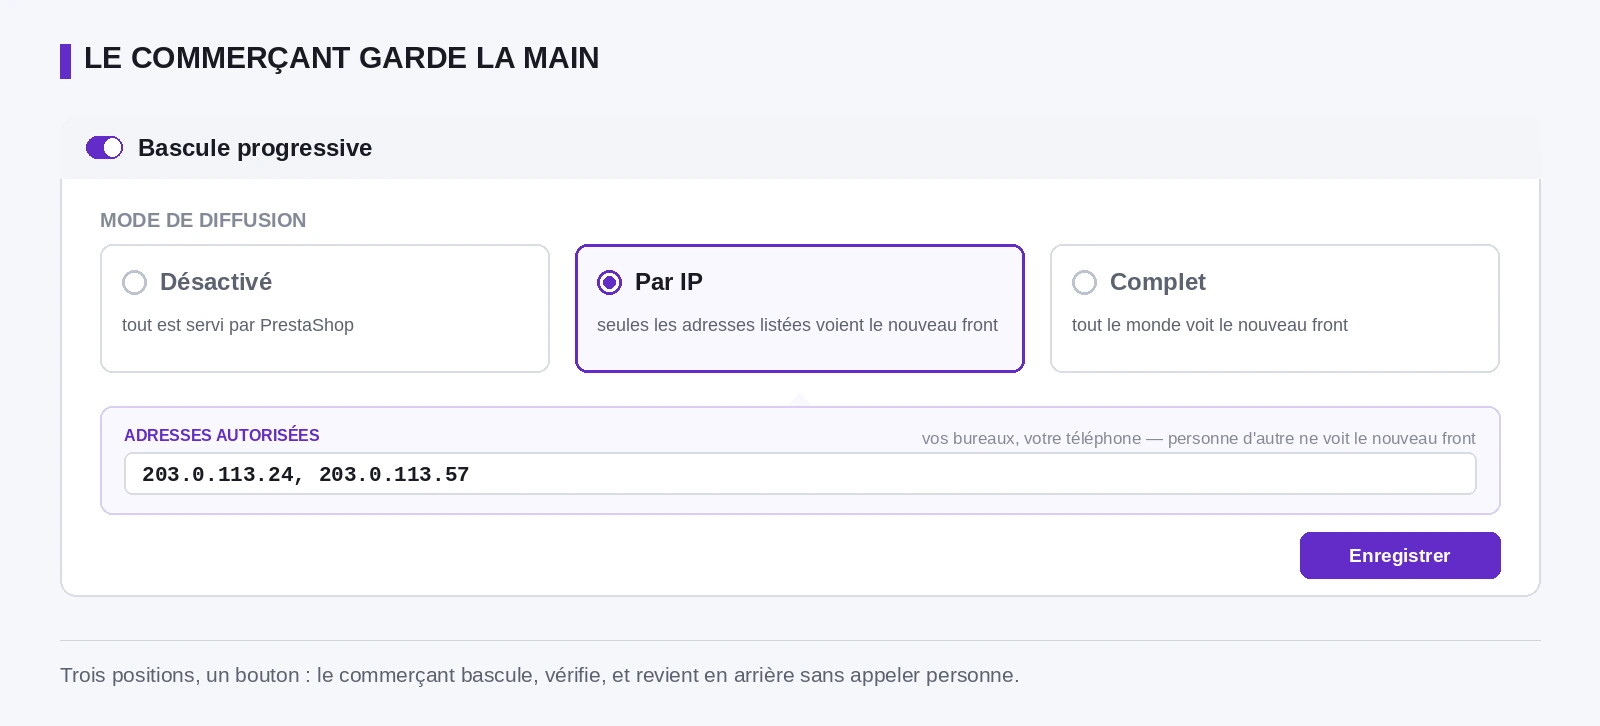
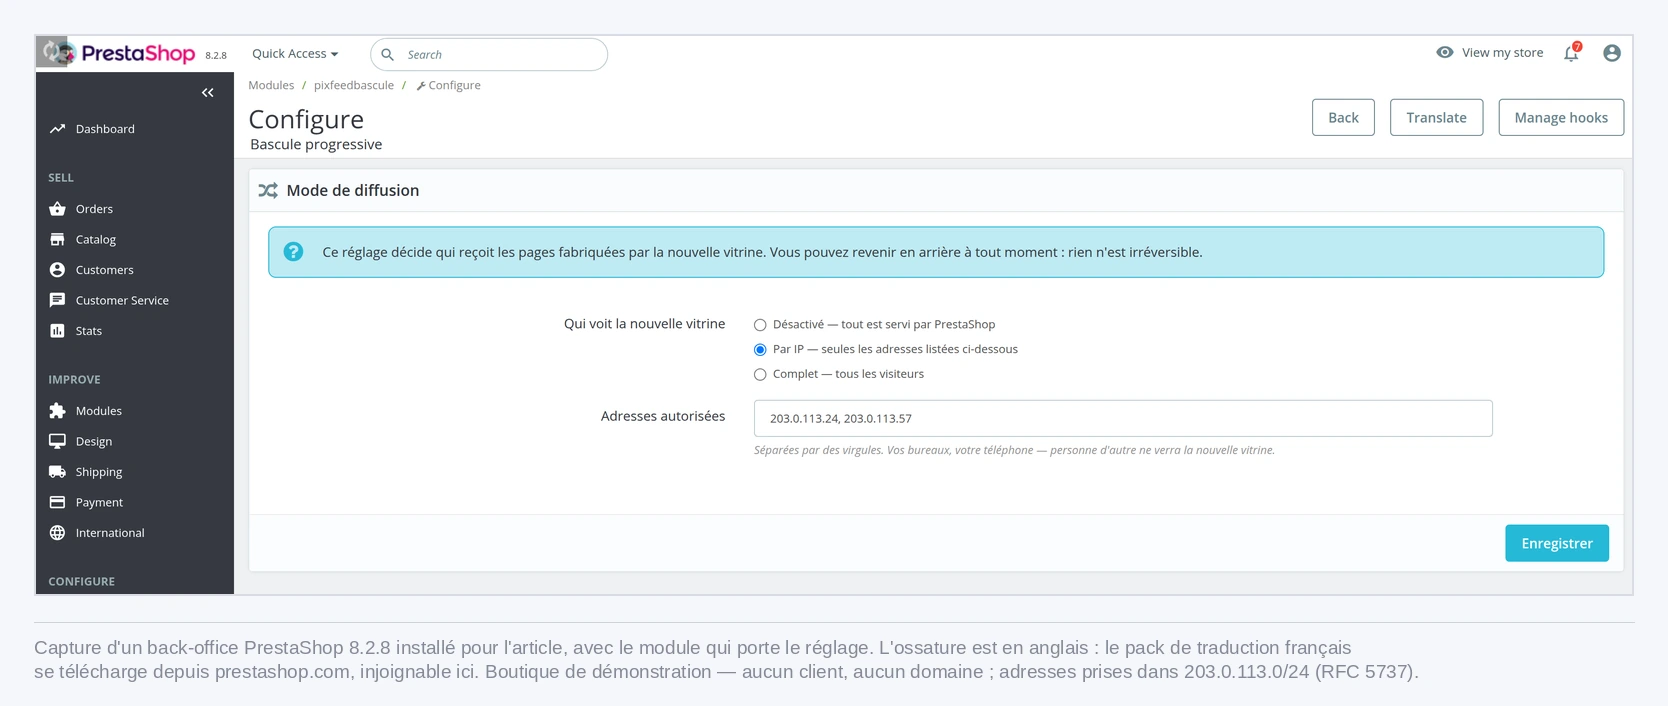
Image 5 : une vraie capture, PrestaShop tourne
J'avais conclu trop vite que PrestaShop ne pouvait pas tourner ici. C'était
faux sur le point décisif : le démon Docker ÉTAIT installé, seul son socket
manquait — je n'avais vérifié que le socket. Démarré à la main, il fonctionne.

Le blocage réel était ailleurs et plus étroit : le CDN de Docker Hub
(production.cloudfront.docker.com) est refusé par la politique de sortie, mais
pas les autres registres. Par le miroir Google, les images se téléchargent.

    mirror.gcr.io/library/mariadb:11        329 Mo
    mirror.gcr.io/prestashop/prestashop:8   1,4 Go

L'installeur bute ensuite sur le pack de traduction, servi par prestashop.com,
injoignable. Deux `throw` neutralisés dans `Install.php` — seule modification
apportée au logiciel, et seulement dans l'installeur — suffisent à passer
outre : PrestaShop s'installe avec les chaînes anglaises livrées dans son code.
D'où l'ossature du back-office en anglais sur la capture ; tout le français
vient du module.

`module-pixfeedbascule.php` est le module réel, installé par
`prestashop:module install`, dont PrestaShop rend la page de configuration.
Rien n'est redessiné : la capture est prise dans Chromium sur un PrestaShop
8.2.8 qui tourne.

Anonymisation : boutique de démonstration installée pour l'occasion, aucun
client, aucun domaine, aucun produit ; adresses prises dans 203.0.113.0/24,
plage réservée à la documentation par la RFC 5737.

Claude-Session: https://claude.ai/code/session_015un2t2xRvThoKm9jAu6CXK

diff --git a/article-headless-prestashop/module-pixfeedbascule.php b/article-headless-prestashop/module-pixfeedbascule.php
@@ -1,0 +1,109 @@
+<?php
+/**
+ * Bascule progressive — module de démonstration pour l'article.
+ *
+ * Il n'ajoute qu'une page de configuration : le sélecteur à trois positions
+ * Désactivé / Par IP / Complet, plus la liste d'adresses autorisées. C'est
+ * exactement l'écran que l'article décrit, et il est produit par PrestaShop
+ * lui-même — pas redessiné.
+ */
+if (!defined('_PS_VERSION_')) { exit; }
+
+class PixfeedBascule extends Module
+{
+    public function __construct()
+    {
+        $this->name = 'pixfeedbascule';
+        $this->tab = 'front_office_features';
+        $this->version = '1.0.0';
+        $this->author = 'Pixfeed';
+        $this->need_instance = 0;
+        $this->bootstrap = true;
+        parent::__construct();
+        $this->displayName = 'Bascule progressive';
+        $this->description = 'Choisit qui voit la nouvelle vitrine : personne, '
+            . 'quelques adresses de test, ou tout le monde.';
+        $this->ps_versions_compliancy = ['min' => '1.7', 'max' => _PS_VERSION_];
+    }
+
+    public function install()
+    {
+        return parent::install()
+            && Configuration::updateValue('PIXFEED_MODE', 'ip')
+            && Configuration::updateValue('PIXFEED_IPS', '203.0.113.24, 203.0.113.57');
+    }
+
+    public function uninstall()
+    {
+        return parent::uninstall()
+            && Configuration::deleteByName('PIXFEED_MODE')
+            && Configuration::deleteByName('PIXFEED_IPS');
+    }
+
+    public function getContent()
+    {
+        $sortie = '';
+        if (Tools::isSubmit('submitPixfeedBascule')) {
+            Configuration::updateValue('PIXFEED_MODE', Tools::getValue('PIXFEED_MODE'));
+            Configuration::updateValue('PIXFEED_IPS', Tools::getValue('PIXFEED_IPS'));
+            $sortie .= $this->displayConfirmation('Réglage enregistré.');
+        }
+        return $sortie . $this->renderForm();
+    }
+
+    protected function renderForm()
+    {
+        $champs = [
+            'form' => [
+                'legend' => [
+                    'title' => 'Mode de diffusion',
+                    'icon' => 'icon-random',
+                ],
+                'description' => 'Ce réglage décide qui reçoit les pages '
+                    . 'fabriquées par la nouvelle vitrine. Vous pouvez revenir '
+                    . 'en arrière à tout moment : rien n\'est irréversible.',
+                'input' => [
+                    [
+                        'type' => 'radio',
+                        'label' => 'Qui voit la nouvelle vitrine',
+                        'name' => 'PIXFEED_MODE',
+                        'required' => true,
+                        'class' => 't',
+                        'values' => [
+                            ['id' => 'mode_off', 'value' => 'off',
+                             'label' => 'Désactivé — tout est servi par PrestaShop'],
+                            ['id' => 'mode_ip', 'value' => 'ip',
+                             'label' => 'Par IP — seules les adresses listées ci-dessous'],
+                            ['id' => 'mode_full', 'value' => 'full',
+                             'label' => 'Complet — tous les visiteurs'],
+                        ],
+                    ],
+                    [
+                        'type' => 'text',
+                        'label' => 'Adresses autorisées',
+                        'name' => 'PIXFEED_IPS',
+                        'desc' => 'Séparées par des virgules. Vos bureaux, '
+                            . 'votre téléphone — personne d\'autre ne verra la '
+                            . 'nouvelle vitrine.',
+                        'size' => 60,
+                    ],
+                ],
+                'submit' => ['title' => 'Enregistrer'],
+            ],
+        ];
+
+        $aide = new HelperForm();
+        $aide->module = $this;
+        $aide->name_controller = $this->name;
+        $aide->token = Tools::getAdminTokenLite('AdminModules');
+        $aide->currentIndex = AdminController::$currentIndex
+            . '&configure=' . $this->name;
+        $aide->submit_action = 'submitPixfeedBascule';
+        $aide->default_form_language = (int) Configuration::get('PS_LANG_DEFAULT');
+        $aide->fields_value = [
+            'PIXFEED_MODE' => Configuration::get('PIXFEED_MODE'),
+            'PIXFEED_IPS' => Configuration::get('PIXFEED_IPS'),
+        ];
+        return $aide->generateForm([$champs]);
+    }
+}

diff --git a/article-headless-prestashop/montage_bascule.py b/article-headless-prestashop/montage_bascule.py
@@ -1,0 +1,100 @@
+"""
+IMAGE 5 de l'article « PrestaShop headless » — le sélecteur de bascule.
+
+    python3 article-headless-prestashop/montage_bascule.py
+
+Produit `article-headless-prestashop/bascule-progressive-back-office-prestashop.webp`
+à partir de `bascule-capture-prestashop-8.2.8.png`.
+
+----------------------------------------------------------------------------
+C'EST UNE VRAIE CAPTURE, ET VOILÀ CE QU'IL A FALLU
+----------------------------------------------------------------------------
+La première version de cette figure était une maquette, faute de pouvoir faire
+tourner PrestaShop. C'était une conclusion prématurée : le démon Docker était
+installé, seul son socket manquait, et le blocage venait du CDN de Docker Hub —
+pas des autres registres. En passant par le miroir Google, les images se
+téléchargent.
+
+L'installeur bute ensuite sur le téléchargement du pack de traduction, servi
+par prestashop.com, injoignable ici. Deux `throw` neutralisés dans
+`Install.php` suffisent à passer outre : PrestaShop s'installe alors avec les
+chaînes anglaises livrées dans son code. C'est la seule modification apportée
+au logiciel, et elle ne touche que l'installeur.
+
+D'où une conséquence visible : l'ossature du back-office est en anglais. Tout
+ce qui parle français vient du module, dont les libellés sont à nous.
+
+Le module est réel, installé par `prestashop:module install`, et la page est
+rendue par PrestaShop : rien n'est redessiné.
+
+----------------------------------------------------------------------------
+ANONYMISATION
+----------------------------------------------------------------------------
+Boutique de démonstration installée pour l'occasion : aucun nom de client,
+aucun domaine, aucun produit. Les adresses du champ sont prises dans
+203.0.113.0/24, la plage que la RFC 5737 réserve à la documentation.
+"""
+
+import os
+
+from PIL import Image, ImageDraw
+
+import charte as C
+
+RACINE = os.path.dirname(os.path.abspath(__file__))
+CAPTURE = os.path.join(RACINE, "bascule-capture-prestashop-8.2.8.png")
+SORTIE = os.path.join(
+    RACINE, "bascule-progressive-back-office-prestashop.webp")
+
+LARGEUR = 1600
+#  La page capturée est plus haute que son contenu : on coupe sous le panneau.
+#  Mesuré sur l'image, pas estimé.
+BAS = 1180
+
+
+def principal():
+    if not os.path.exists(CAPTURE):
+        raise SystemExit("capture absente : %s" % CAPTURE)
+    C.verifier()
+
+    cap = Image.open(CAPTURE).convert("RGB")
+    if BAS > cap.height:
+        raise SystemExit("la capture fait %d px de haut, la coupe en demande %d"
+                         % (cap.height, BAS))
+    cap = cap.crop((0, 0, cap.width, BAS))
+    h = int(round(LARGEUR * cap.height / cap.width))
+
+    marge, pied = 34, 76
+    L = LARGEUR + marge * 2
+    H = marge + h + pied + marge
+    out = Image.new("RGB", (L, H), C.FOND)
+    d = ImageDraw.Draw(out)
+
+    vign = cap.resize((LARGEUR, h), Image.LANCZOS)
+    out.paste(vign, (marge, marge))
+    d.rectangle([marge, marge, marge + LARGEUR - 1, marge + h - 1],
+                outline=C.BORD, width=2)
+
+    y = marge + h + 26
+    d.line([marge, y, L - marge, y], fill=C.TRAIT, width=1)
+    f = C.police(C.POLICE_R, 19)
+    d.text((marge, y + 14),
+           "Capture d'un back-office PrestaShop 8.2.8 installé pour l'article, "
+           "avec le module qui porte le réglage. L'ossature est en anglais : le "
+           "pack de traduction français",
+           font=f, fill=C.FAIBLE)
+    d.text((marge, y + 38),
+           "se télécharge depuis prestashop.com, injoignable ici. Boutique de "
+           "démonstration — aucun client, aucun domaine ; adresses prises dans "
+           "203.0.113.0/24 (RFC 5737).",
+           font=f, fill=C.FAIBLE)
+
+    out.save(SORTIE, "WEBP", quality=C.QUALITE, method=6)
+    print()
+    print("  capture %d × %d  ->  figure %d × %d" % (*cap.size, *out.size))
+    print("  %s  (%.0f Ko)"
+          % (os.path.basename(SORTIE), os.path.getsize(SORTIE) / 1024))
+
+
+if __name__ == "__main__":
+    principal()
